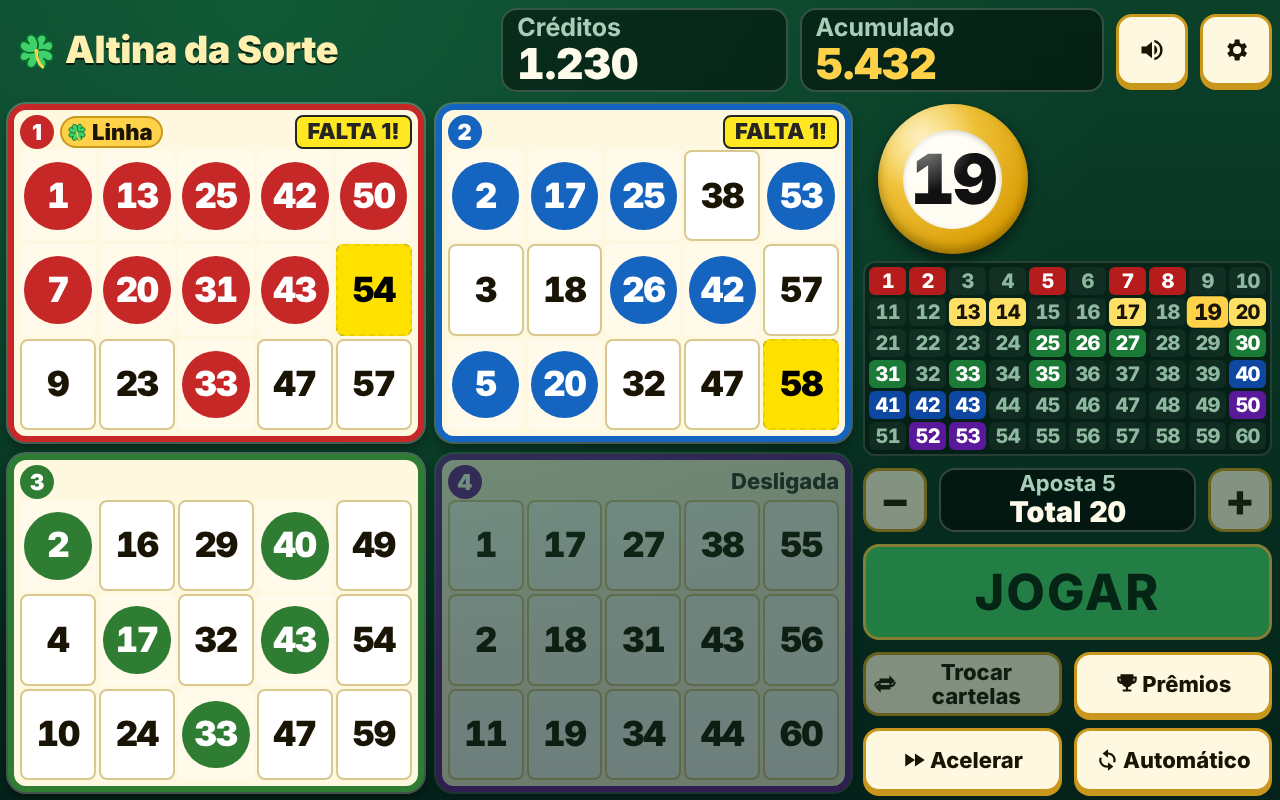
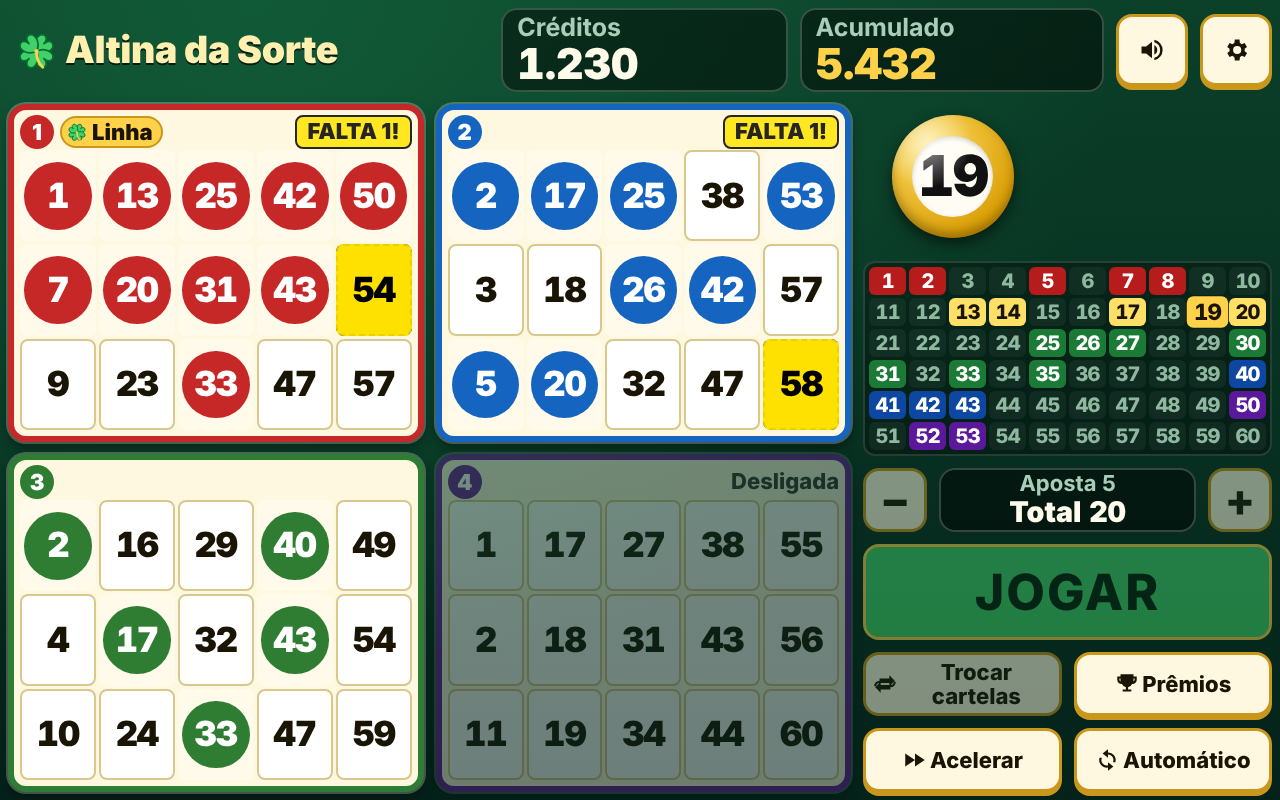
Áudio completo, @types/node e progresso de UI
Claude-Session: https://claude.ai/code/session_01BrneZjx8fv3ht8pEMk6g9H

Changed region(s): [[0.6875, 0.125, 0.8125, 0.3125]]

diff --git a/src/styles/components.css b/src/styles/components.css
@@ -318,7 +318,7 @@
   .altina .bar .btn.sec { padding: 4px 2px; letter-spacing: -.02em; }
   .altina .top { display: grid; grid-template-columns: minmax(0, 1fr) 64px 64px; gap: 6px 8px; min-height: 0; }
   .altina .top .logo, .altina .top .sp { display: none; }
-  .altina .top .stat { grid-column: 1; flex-direction: row; align-items: baseline; justify-content: space-between; min-height: 0; padding: 2px 12px; max-width: none; }
+  .altina .top .stat { grid-column: 1; flex-direction: row; align-items: baseline; justify-content: space-between; min-height: 0; padding: 2px 8px; max-width: none; gap: 6px; }
   .altina .top .stat .val { font-size: calc(26px * var(--tsb)); }
   .altina .top .stat .lab { font-size: calc(20px * var(--tsb)); white-space: nowrap; }
   .altina .top .stat { overflow: hidden; }

diff --git a/src/styles/layout.css b/src/styles/layout.css
@@ -39,7 +39,7 @@
     "cards ball cap"
     "cards hist hist"
     "cards bar  bar";
-  --ball: clamp(100px, calc(100vh - 650px), 190px);
+  --ball: clamp(100px, calc(100vh - 650px - (var(--ts) - 1) * 110px), 190px);
   --cellfs: max(20px, min(2.7vw, 5.4vh));
 }
 .altina .top {

diff --git a/scripts/audio/README.md b/scripts/audio/README.md
@@ -1,0 +1,133 @@
+# Pipeline de voz
+
+O jogo funciona **sem nenhum arquivo de áudio** (usa a voz do navegador, `speechSynthesis` pt-BR). Os clipes abaixo só melhoram a qualidade.
+
+Ordem de preferência na hora de falar (ver `src/audio/engine.ts`):
+
+1. `public/audio/voice-custom/<id>.webm|.mp3`: gravações da família (vencem sempre);
+2. `public/audio/voice/<id>.webm|.mp3`: clipes gerados por TTS neural (este pipeline);
+3. `speechSynthesis` pt-BR com `rate`/`pitch` animados.
+
+Os clipes são baixados **depois do primeiro toque**, em segundo plano. Os que ainda não chegaram são pulados sem erro.
+
+## Gerar os clipes (TTS neural)
+
+Requisitos: Node 20+, `ffmpeg` com `libopus` e `libmp3lame` no PATH, e uma chave do provedor.
+
+```bash
+export AZURE_SPEECH_KEY=...          # só no seu terminal; NUNCA commitar
+export AZURE_SPEECH_REGION=brazilsouth
+# opcionais:
+export AZURE_TTS_VOICE=pt-BR-FranciscaNeural
+export AZURE_TTS_STYLE=cheerful      # estilo "animado" (depende da voz)
+export AZURE_TTS_STYLE_DEGREE=1.5
+
+npx tsx scripts/audio/generate.ts                 # gera o que falta (~125 clipes)
+npx tsx scripts/audio/generate.ts --only 'prize_*,jackpot_*' --force
+npx tsx scripts/audio/generate.ts --list          # ids e textos (sem chave)
+npx tsx scripts/audio/generate.ts --dry-run       # mostra o SSML (sem chave)
+```
+
+Sem chave o script termina com mensagem clara e **não** altera nada.
+
+Para cada linha de `src/audio/script.ts`:
+
+1. envia SSML (voz neural pt-BR, estilo `cheerful`, `prosody` mais rápido/agudo nas falas de prêmio);
+2. corta silêncio das pontas (`silenceremove`, limiar −50 dB);
+3. normaliza em ≈ −16 LUFS (`loudnorm` em duas passadas, pico −1,5 dBTP);
+4. codifica **Opus/WebM** mono 28 kbps (`<id>.webm`) e **MP3** mono 48 kbps (`<id>.mp3`);
+5. avisa se algum clipe passar de 25 KB e atualiza `public/audio/voice/manifest.json` (lista de ids; evita requisições 404).
+
+Commite os arquivos gerados (`public/audio/voice/*`). Orçamento total do pacote de áudio: ≤ 2,5 MB. Hoje cada clipe tem poucos KB.
+
+### Vozes e estilos
+
+As vozes neurais mudam de nome e de estilos disponíveis com o tempo. Confira a lista de vozes pt-BR do provedor e teste algumas falas com `--only` antes de gerar tudo. Se a voz não aceitar `cheerful`, o estilo é ignorado; compense com `prosody` (editável em `ssmlFor()` no script).
+
+### Alternativas ao Azure
+
+O script é um adaptador pequeno: troque `azureTts()` e `ssmlFor()` e mantenha o resto (ffmpeg + manifest).
+
+| Provedor | Observações |
+|---|---|
+| ElevenLabs (`eleven_multilingual_v2`/`v3`) | Vozes muito expressivas em pt-BR; controle de estilo/estabilidade; checar licença comercial do plano |
+| Google Cloud Text-to-Speech (Chirp 3 HD, pt-BR) | Boa naturalidade; sem "estilos", ajuste por `speakingRate`/`pitch` |
+| OpenAI `gpt-4o-mini-tts` | Parâmetro `instructions` permite pedir "apresentador de bingo empolgado, caloroso" |
+| Amazon Polly (pt-BR neural/generative) | Simples e barato; menos expressivo |
+| Gravar com a própria voz | Veja a seção abaixo |
+
+Tudo é opcional: o jogo cai no `speechSynthesis` se não houver clipe.
+
+## Gravações da família (`public/audio/voice-custom/`)
+
+Qualquer clipe com o **mesmo id** de uma fala substitui o gerado. Basta colocar os arquivos em `public/audio/voice-custom/` com o nome:
+
+```
+public/audio/voice-custom/<id>.webm     (preferido, Opus)
+public/audio/voice-custom/<id>.mp3      (alternativa/fallback)
+```
+
+Exemplos: `n07.webm` ("Sete!"), `prize_bingo_1.mp3`, `greet_morning.webm`, `start_1.mp3`.
+Números: `n01` a `n60` (dois dígitos). Prêmios têm 2 a 3 variações (`prize_<padrao>_1`, `_2`, `_3`); gravar só algumas é ok, as demais continuam com a voz gerada. Para trocar todas as variações de um prêmio, grave todas.
+
+Dica para quem grava no celular: grave cada fala em um arquivo (m4a/wav/mp3/ogg) com o nome do id (ex.: `prize_bingo_1.m4a`) numa pasta qualquer e rode:
+
+```bash
+npx tsx scripts/audio/generate.ts --prep-custom ~/minhas-gravacoes
+```
+
+Isso corta os silêncios, nivela o volume em ≈ −16 LUFS e gera `.webm` + `.mp3` em `voice-custom/`. Não é preciso chave de API.
+
+Sem passar pelo script, o jogo toca o arquivo como está (sem nivelar). Opcional: `public/audio/voice-custom/manifest.json` com `{"ids":["n07","prize_bingo_1"]}` (ou nomes com extensão) para o jogo não pedir arquivos inexistentes; sem o manifest ele tenta `<id>.webm` e `<id>.mp3` de cada fala.
+
+Se o app é offline (PWA), o service worker deve incluir `/audio/voice/` e `/audio/voice-custom/` no cache (os arquivos são buscados em segundo plano após o primeiro toque).
+
+## Ids do roteiro (além de `n01`..`n60`)
+
+| id | texto |
+|---|---|
+| `greet_morning` | Bom dia, Dona Altina! Vamos jogar? |
+| `gift_daily_morning` | Bom dia, Dona Altina! Seu presente de hoje! |
+| `greet_afternoon` | Boa tarde, Dona Altina! Vamos jogar? |
+| `gift_daily_afternoon` | Boa tarde, Dona Altina! Seu presente de hoje! |
+| `greet_night` | Boa noite, Dona Altina! Vamos jogar? |
+| `gift_daily_night` | Boa noite, Dona Altina! Seu presente de hoje! |
+| `start_1` | Boa sorte, Dona Altina! |
+| `start_2` | Vamos lá! |
+| `start_3` | Valendo! |
+| `almost_1` | Falta uma! |
+| `almost_2` | Tá quase! |
+| `almost_bingo_1` | Falta uma pro bingo! |
+| `almost_bingo_2` | Tá quase o bingo! |
+| `extra_1` | Bola extra! Vai, Dona Altina! |
+| `extra_2` | Mais uma chance! |
+| `noprize_1` | Na próxima vai! |
+| `noprize_2` | Quase, quase! |
+| `noprize_3` | Vamos de novo? |
+| `gift_1` | Presente pra Dona Altina! |
+| `gift_2` | Olha o presente, Dona Altina! |
+| `prize_linha_1` | Linhaaa! |
+| `prize_linha_2` | Linha! Muito bem! |
+| `prize_linha_3` | Fez linha! |
+| `prize_cantos_1` | Cantos! |
+| `prize_cantos_2` | Os quatro cantos! |
+| `prize_cantos_3` | Cantooos! |
+| `prize_piramide_1` | Pirâmide! |
+| `prize_piramide_2` | Pirâmide! Olha só! |
+| `prize_piramide_3` | Piraaâmide! |
+| `prize_u_1` | Deu U! |
+| `prize_u_2` | Deu Úúú! |
+| `prize_u_3` | U! Que lindo! |
+| `prize_linhaDupla_1` | Linha duplaaa! |
+| `prize_linhaDupla_2` | Linha dupla! Que sorte! |
+| `prize_linhaDupla_3` | Duas linhas! |
+| `prize_moldura_1` | Moldura! Que beleza! |
+| `prize_moldura_2` | Moldurinha completa! |
+| `prize_moldura_3` | Moldura! Uhuuu! |
+| `prize_bingo_1` | BINGOOO!!! |
+| `prize_bingo_2` | BINGO! Parabéns! |
+| `prize_bingo_3` | É bingooo! |
+| `jackpot_1` | ACUMULADOOO! A Dona Altina levou tudo! |
+| `jackpot_2` | ACUMULADO! Parabéns, Dona Altina! |
+
+Os textos entre aspas vêm de `src/audio/script.ts` (fonte única); rode `--list` para ver a versão atual.

diff --git a/public/audio/LICENSES.md b/public/audio/LICENSES.md
@@ -1,0 +1,11 @@
+# Licenças do áudio
+
+| Item | Origem | Licença |
+|---|---|---|
+| Música de fundo e stingers (`src/audio/music.ts`) | Gerada proceduralmente em tempo real via Web Audio, composta para este projeto (progressões, linhas de baixo e padrões rítmicos originais) | Original do projeto. Nenhuma obra, amostra ou trecho de terceiros |
+| Efeitos sonoros (`src/audio/sfx.ts`) | Sintetizados em tempo real via Web Audio | Original do projeto. Nenhuma amostra de terceiros |
+| Clipes de voz (`public/audio/voice/*`) | Gerados por serviço de TTS neural a partir de `src/audio/script.ts` (textos originais do projeto) | Uso conforme os termos do provedor escolhido (ver `scripts/audio/README.md`). Confirmar que o plano contratado permite redistribuir o áudio gerado dentro de um app. Não é voz clonada de pessoa real |
+| Gravações da família (`public/audio/voice-custom/*`) | Gravadas por familiares | Pertencem a quem gravou, que autoriza o uso no jogo |
+
+Nenhum asset, nome, voz, som ou música foi copiado de jogos ou faixas existentes.
+Não há faixas de terceiros, portanto não há obrigações de atribuição.
